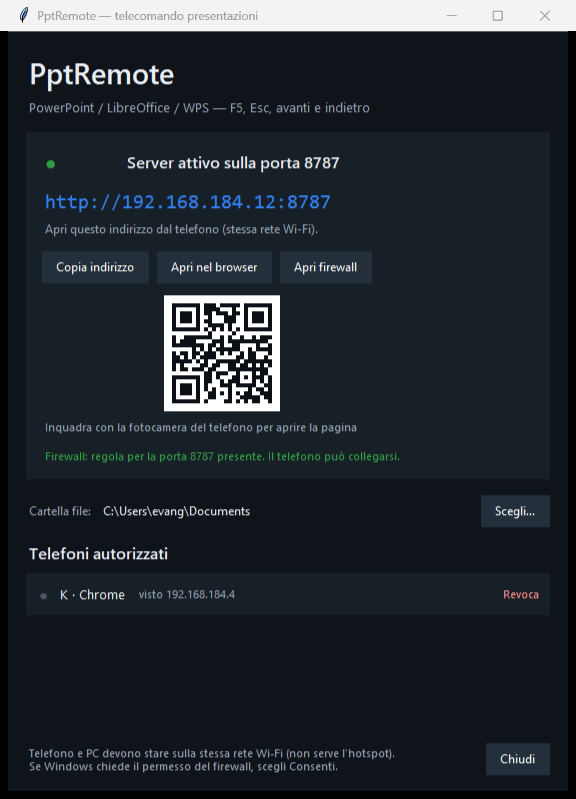
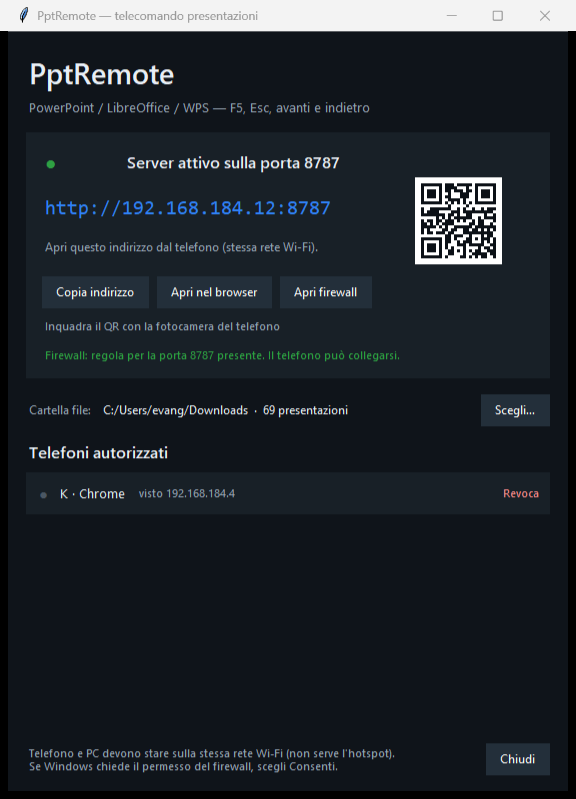
Finestra PC: QR sempre visibile accanto all'indirizzo e nessun lampeggio della console (netsh senza finestra, controlli ogni 60s)

diff --git a/server/ppremote.py b/server/ppremote.py
@@ -1268,6 +1268,7 @@ def firewall_open(port: int) -> bool:
         result = subprocess.run(
             ["netsh", "advfirewall", "firewall", "show", "rule", f"name={APP_NAME} {port}"],
             capture_output=True, text=True, errors="replace", timeout=15,
+            creationflags=getattr(subprocess, "CREATE_NO_WINDOW", 0),
         )
     except (OSError, subprocess.SubprocessError):
         return False
@@ -1411,14 +1412,24 @@ class PcWindow:
 
         qr = self._qr_widget(inner, self.url)
         if qr is not None:
-            qr.grid(row=5, column=0, columnspan=2, pady=(12, 0))
+            qr.grid(row=1, column=2, rowspan=2, sticky="ne", padx=(12, 0))
             tk.Label(
                 inner,
-                text="Inquadra con la fotocamera del telefono per aprire la pagina",
+                text="Inquadra il QR con la fotocamera del telefono",
                 bg=CARD,
                 fg=MUTED,
                 font=("Segoe UI", 8),
-            ).grid(row=6, column=0, columnspan=2, sticky="w", pady=(6, 0))
+            ).grid(row=6, column=0, columnspan=2, sticky="w", pady=(8, 0))
+        else:
+            tk.Label(
+                inner,
+                text="QR non disponibile: python -m pip install --user qrcode",
+                bg=CARD,
+                fg="#e3b341",
+                font=("Segoe UI", 8),
+                wraplength=470,
+                justify="left",
+            ).grid(row=6, column=0, columnspan=2, sticky="w", pady=(8, 0))
 
         self.fw_label = tk.Label(
             inner, text="", bg=CARD, fg=MUTED, font=("Segoe UI", 8),
@@ -1488,7 +1499,7 @@ class PcWindow:
         except Exception:  # pragma: no cover - libreria presente ma diversa
             LOG.debug("QR non generato", exc_info=True)
             return None
-        module = 4
+        module = 3
         side = len(matrix) * module
         canvas = tk.Canvas(
             parent, width=side, height=side, bg="white", highlightthickness=0
@@ -1626,9 +1637,9 @@ class PcWindow:
     # -- lista dispositivi --
     def _refresh_lists(self) -> None:
         self._ticks = getattr(self, "_ticks", 0) + 1
-        if self._ticks % 10 == 1:
+        if self._ticks % 40 == 1:
             self._update_firewall_label()
-        if self._ticks % 10 == 2:
+        if self._ticks % 40 == 2:
             self._refresh_folder_count()
         for child in self.devices_box.winfo_children():
             child.destroy()
